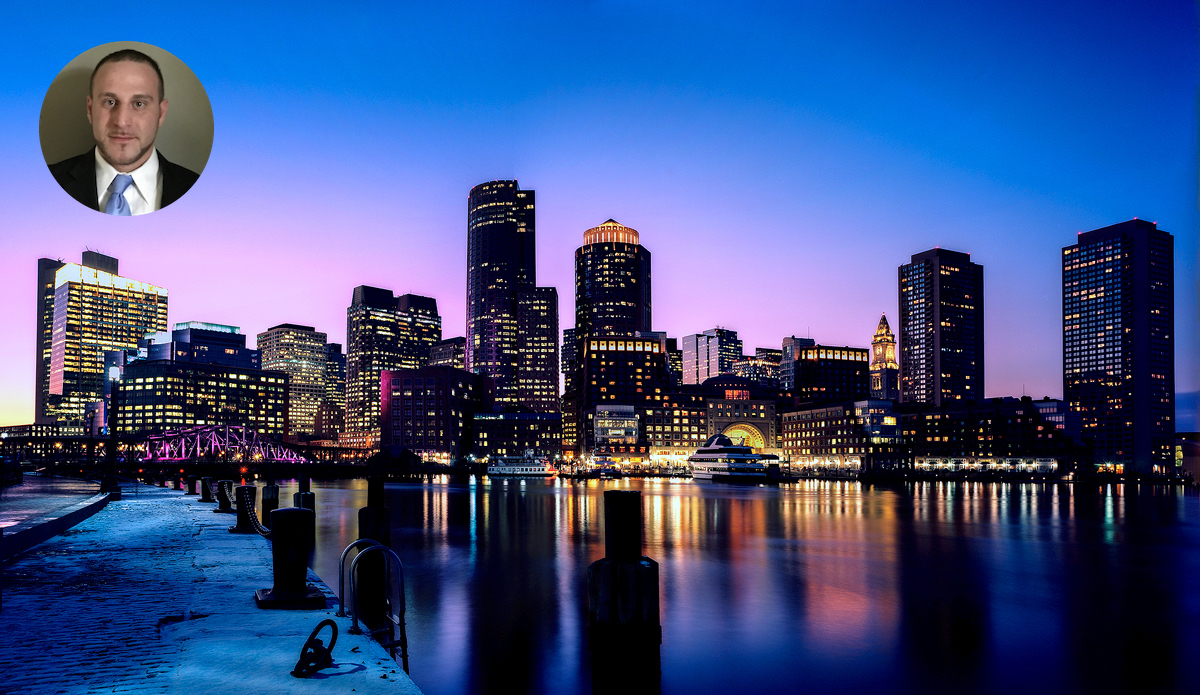
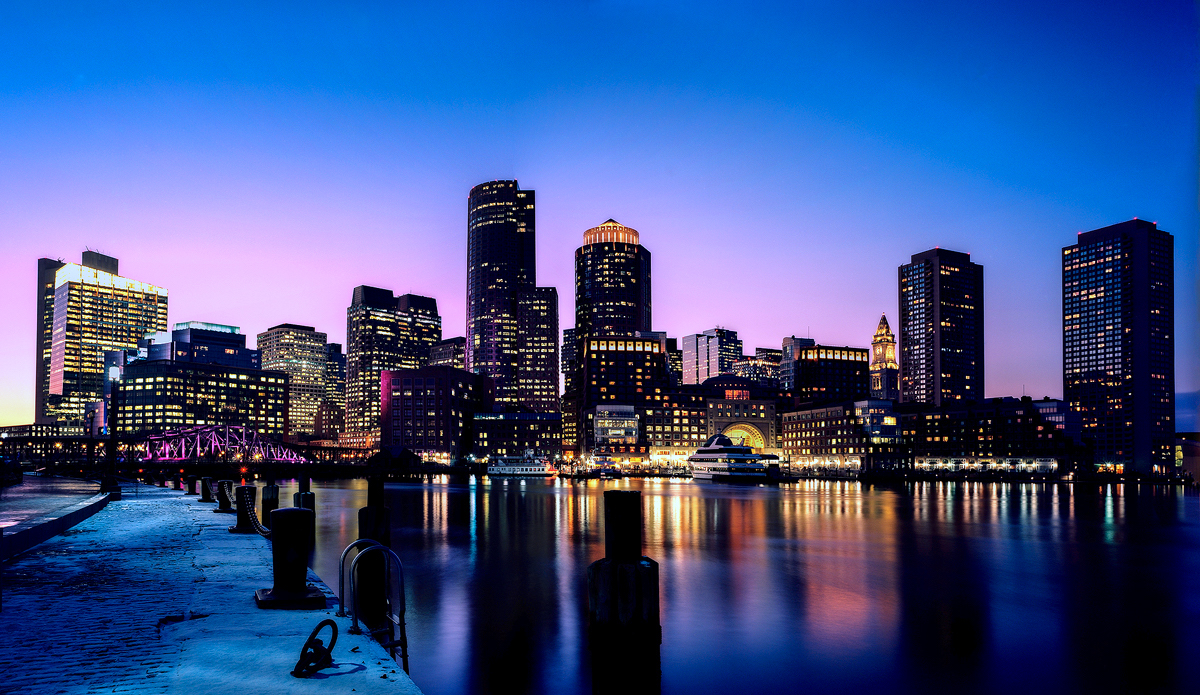
Adds headhot

Changed region(s): [[0.0308, 0.0604, 0.185, 0.3324]]

diff --git a/index.html b/index.html
@@ -86,6 +86,7 @@
   </div>
   <!-- /Navigation -->
 
+
   <!-- Section: about -->
   <section id="about" class="home-section color-dark bg-white">
     <div class="container marginbot-50">
@@ -93,6 +94,11 @@
         <div class="col-lg-8 col-lg-offset-2">
           <div class="animatedParent">
             <div class="section-heading text-center">
+
+              <!-- <div class="col-sm-12 col-sm-offset-2"> -->
+              <img src="img/headshot.jpg" class="img-responsive headshot" alt="Spencer Stone">
+
+              <br>
               <h2 class="h-bold">About Me</h2>
               <div class="divider-header"></div>
             </div>
@@ -101,14 +107,13 @@
       </div>
 
     </div>
-
     <div class="container">
 
 
       <div class="row">
 
 
-        <div class="col-lg-8 col-lg-offset-2 animatedParent">
+        <div class="col-lg-8 col-lg-offset-2">
           <div class="text-center">
             <p>
               I'm Spencer, a creative, Boston based web developer with a strong background in technology. I have a demonstrated ability to complete high-end projects in a deadline-oriented environment. I have strong communication, planning, analysis, problem solving
@@ -227,8 +232,7 @@
           <div class="row">
             <div class="col-md-6">
               <!-- <a href="img/works/2.jpg" title="Front End Logic Project" data-lightbox-gallery="gallery1" data-lightbox-hidpi="img/works/1@2x.jpg"> -->
-              <img src="img/works/2.jpg" class="img-responsive img2border" alt="img">
-              </a>
+              <img src="img/works/2.jpg" class="img-responsive img2border" alt="Front End Logic Project">
               <div class="section-heading text-center">
                 <br>
                 <h2 class="smaller">Front End Logic Project</h2>
@@ -245,7 +249,7 @@
             </div>
             <div class="col-md-6">
               <!-- <a href="img/works/1.jpg" title="Rails DB Project" data-lightbox-gallery="gallery1" data-lightbox-hidpi="img/works/1@2x.jpg"> -->
-              <img src="img/works/1.jpg" class="img-responsive" alt="img">
+              <img src="img/works/1.jpg" class="img-responsive" alt="Rails DB Project">
               </a>
               <div class="section-heading text-center">
                 <br>
@@ -286,8 +290,7 @@
               <div class="col-lg-8 col-lg-offset-2">
                 <div class="text-center">
                   <p>
-                    <br>
-                    (508)-545-4157
+                    <br> (508)-545-4157
                   </p>
                 </div>
               </div>

diff --git a/css/style.css b/css/style.css
@@ -5,6 +5,10 @@
 	margin:0;
 }
 
+.headshot {
+	margin: 0 auto;
+}
+
 .img2border{
 	border: 1px solid #5bc0de;
 }
